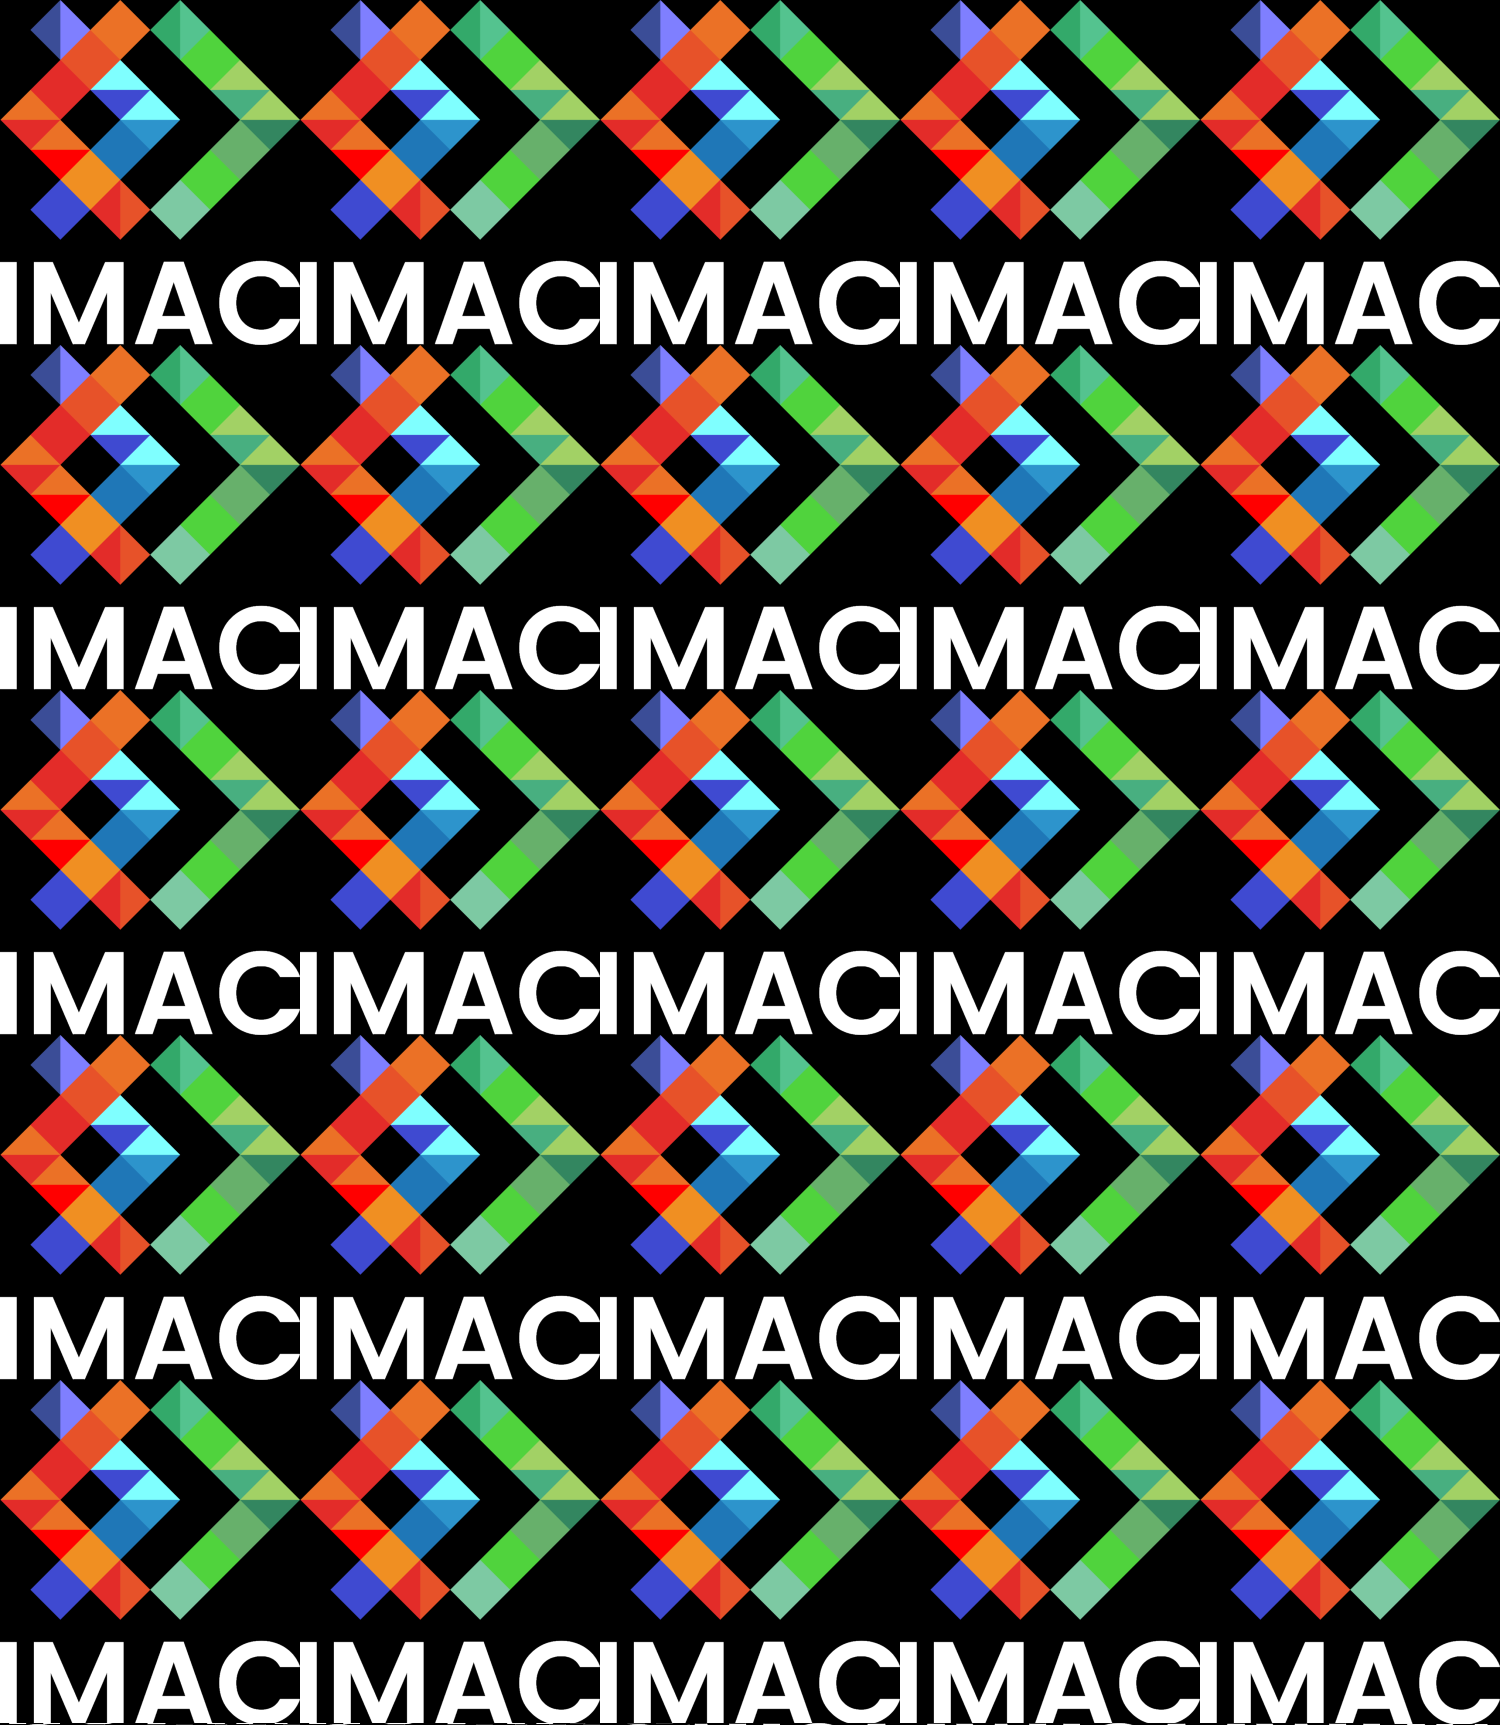
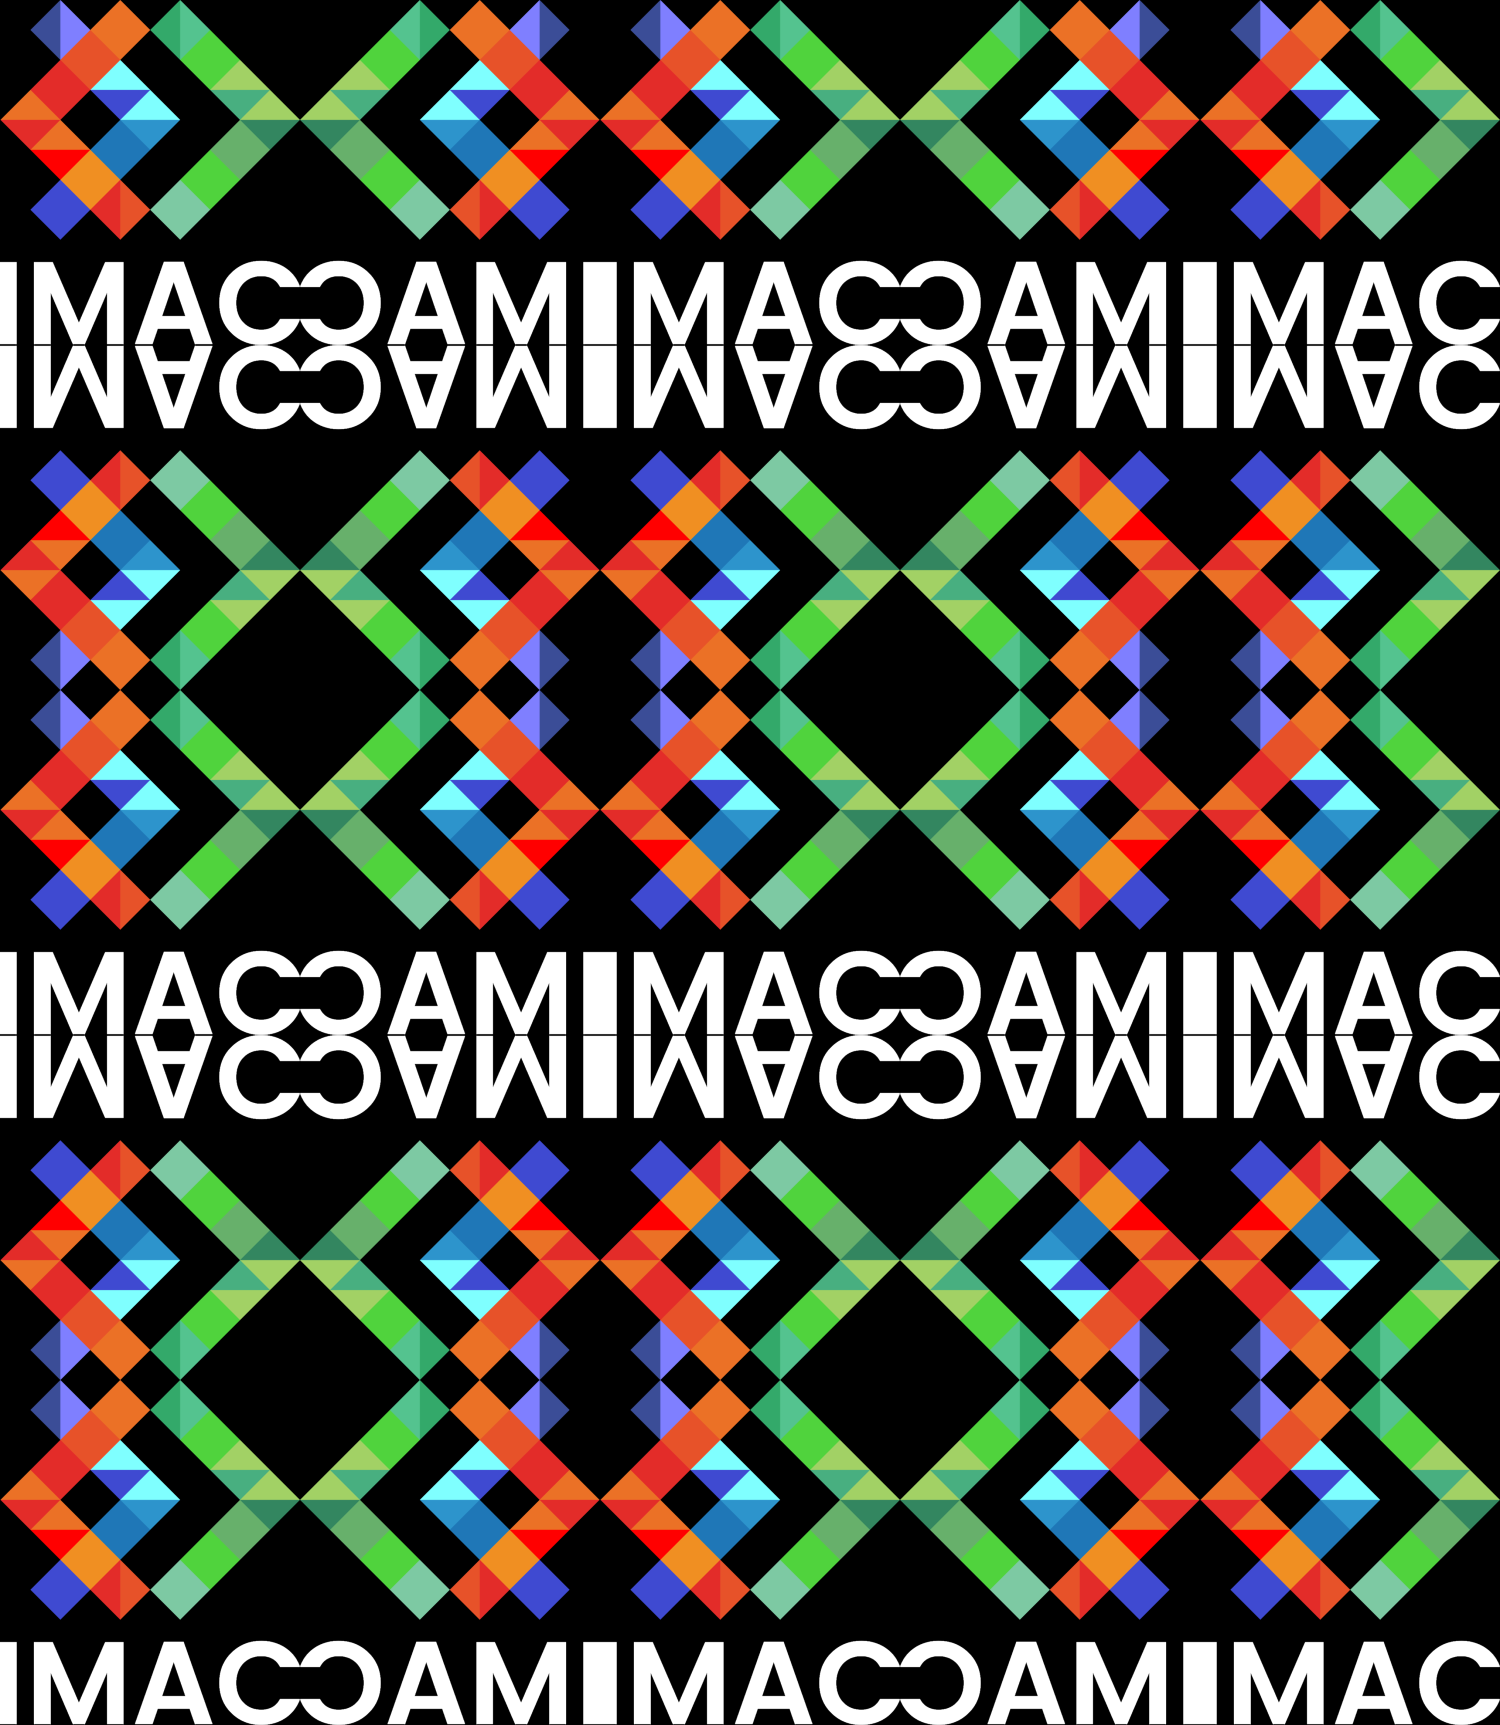
OP mosaiqueMiroir + OPTI main

diff --git a/src/main.cpp b/src/main.cpp
@@ -246,37 +246,38 @@ void mosaique(sil::Image image)
 
 void mosaiqueMiroir(sil::Image image) 
 {
-    sil::Image newImageMirroredMosaic{5*image.width(), 5*image.height()};
-    
-    /*création de l'image en mosaique (pt de départ)*/ for (int colnewImageMosaic{0}; colnewImageMosaic < 5*image.height(); colnewImageMosaic += image.height())
+    sil::Image canvasMirroredMosaic{5*image.width(), 5*image.height()};
+    int startingPointx{};
+    int startingPointy{};
+
+    for (int canvasRow{0}; canvasRow < 5; canvasRow++) 
     {
-        for (int rownewImageMosaic{0}; rownewImageMosaic < 5*image.width(); rownewImageMosaic += image.width())
+        for (int j=0; j<5; j++) 
         {
-            for (int x{0}; x < image.width(); x++)
+            for (int xEntryImage{0}; xEntryImage < image.width(); xEntryImage++)
             {
-                for (int y{0}; y < image.height(); y++)
+                for (int yEntryImage{0}; yEntryImage < image.height(); yEntryImage++)
                 {
-                    newImageMirroredMosaic.pixel(x + rownewImageMosaic, y + colnewImageMosaic) = image.pixel(x, y);
+                    // Choix d'une symétrie verticale ou non
+                    if (canvasRow%2 == 1) {
+                        startingPointx = image.width()-xEntryImage-1;
+                    } else {
+                        startingPointx = xEntryImage;
+                    }
+                    // Choix d'une symétrie horizontale ou non
+                    if (j%2 == 1) {
+                        startingPointy = image.height()-yEntryImage-1;
+                    } else {
+                        startingPointy = yEntryImage;
+                    }
+
+                    // Affichage de l'image
+                    canvasMirroredMosaic.pixel(canvasRow*image.width()+xEntryImage, j*image.height()+yEntryImage) = image.pixel(startingPointx, startingPointy);
                 }
             }
         }
-    } 
-
-    /*reverse 1 col. / 2*/ for (int colnewImageMosaic2 {0}; colnewImageMosaic2 < newImageMirroredMosaic.width(); colnewImageMosaic2 += image.height())
-    {
-        
-        std::reverse(image.pixels().begin() + colnewImageMosaic2, image.pixels().begin() + colnewImageMosaic2 + image.width());
     }
-
-    /*        
-        if (j%2 == 1) {
-                        y_direction = image.height()-y-1;
-                    } else {
-                        y_direction = y;
-                    }
-    */
-
-    newImageMirroredMosaic.save("output/15_mosaiqueMiroir.png");
+    canvasMirroredMosaic.save("output/15_mosaiqueMiroir.png");
 }
 
 void glitch(sil::Image image) 
@@ -396,11 +397,12 @@ int main()
     // }
 
     // mosaique(logo);  
-    mosaiqueMiroir(logo);
-
+    // mosaiqueMiroir(logo);
     // glitch(logo);
+
     // vortex(logo,result2);
-    convolutions(logo, result1 );
+    
+    // convolutions(logo, result1 );
 
     //convolutions(logo, result1 );
 }
